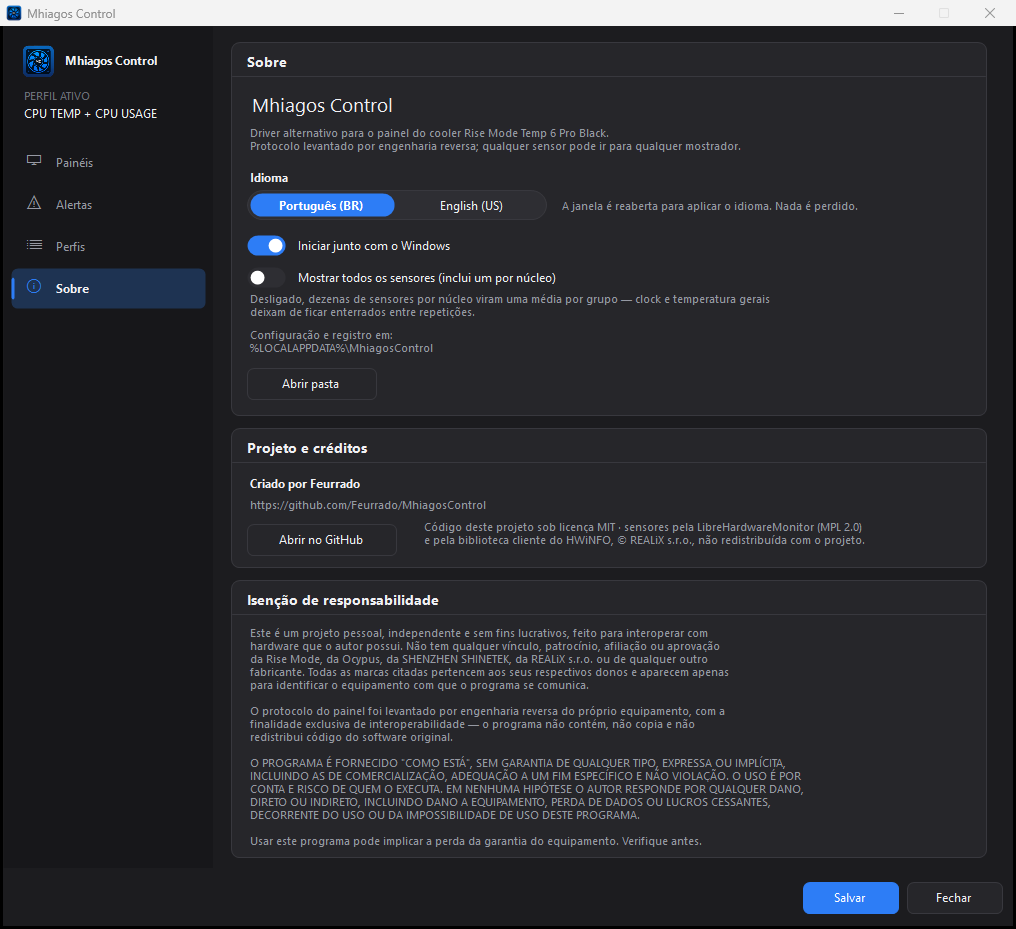
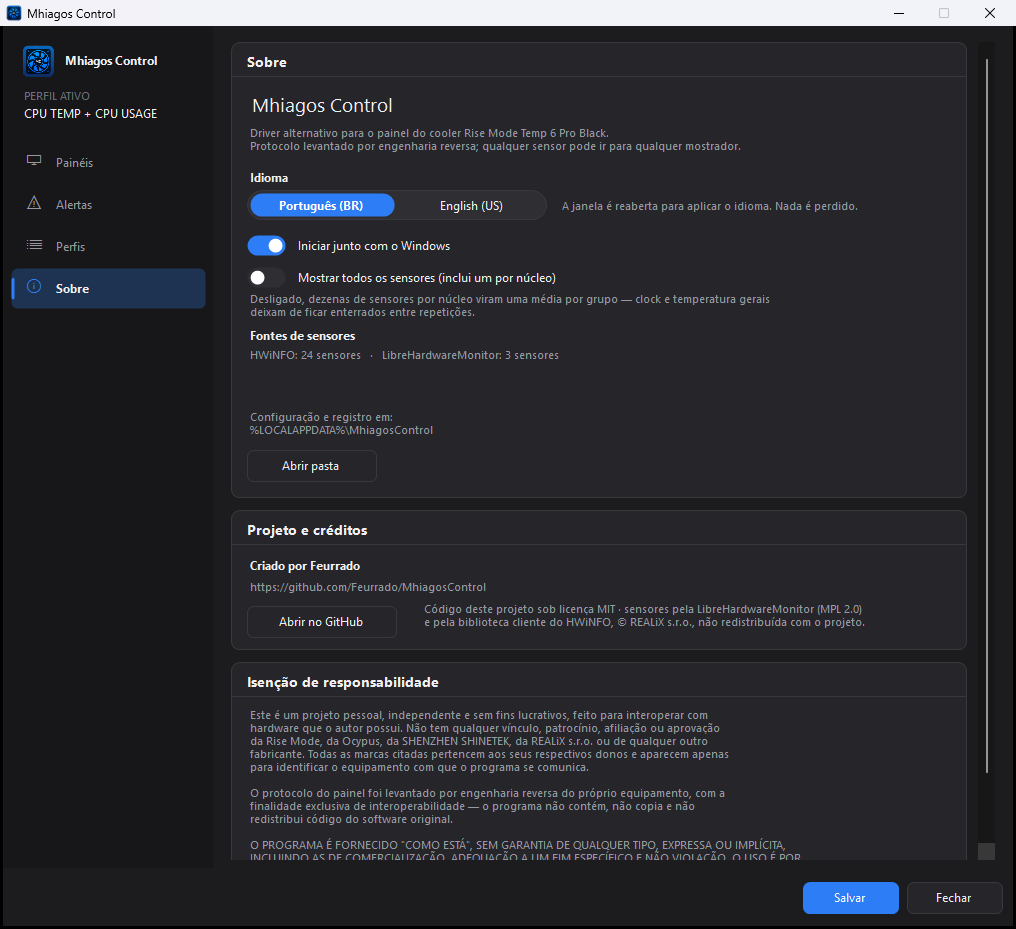
Corta o fallback para a instalacao de fabrica e torna a fonte visivel
A biblioteca do HWiNFO era carregada de C:\Program Files\CPU TEMP Monitor
quando faltava em engine\. Isso prendia o aplicativo ao programa que ele existe
para substituir: desinstalar o original tirava temperatura, potencia e clock
real da CPU, e a queda para a fonte de reserva so aparecia no log.

Agora ela e carregada apenas de engine\ (e da pasta do executavel, formato
antigo). No lugar do fallback silencioso:

- No arranque, se a biblioteca faltar em engine\ e a instalacao de fabrica
  tiver uma copia, o aplicativo PERGUNTA se quer traze-la. E o usuario copiando
  na propria maquina um arquivo que veio com o produto que comprou - nao o
  projeto redistribuindo -, por isso a copia e gesto explicito. A conferencia
  acontece antes de abrir as fontes, entao a copia vale nesta mesma execucao,
  sem reabrir nada nem pedir reinicio.

- A aba Sobre ganha "Fontes de sensores", com a contagem por procedencia. Sem o
  HWiNFO a linha fica em ambar e explica o que se perde e como resolver. A
  contagem sai da propria lista de sensores, e nao do motor: e a mesma
  informacao vinda de onde ela e verdade - se a fonte nao publicou nada, ela
  nao esta ali, independentemente do que a camada de baixo ache que abriu.

A pagina Sobre passa a rolar. Identidade, idioma, fontes, creditos e isencao ja
nao cabem nos 818 px uteis, e cortar qualquer um seria pior do que rolar.

Sai tambem a constante Disclaimer do SettingsForm, que ficou orfa quando o texto
[…]

diff --git a/src/SettingsForm.cs b/src/SettingsForm.cs
@@ -666,9 +666,14 @@ namespace MhiagosControl
             Panel page = new Panel();
             page.BackColor = Color.Transparent;
 
+            // A unica pagina que rola: identidade, idioma, fontes, creditos e
+            // isencao passam do que cabe em 818 px, e cortar qualquer um deles
+            // seria pior do que rolar.
+            page.AutoScroll = true;
+
             Card c = new Card();
             c.Title = T.NavAbout;
-            c.SetBounds(0, 0, 756, 374);
+            c.SetBounds(0, 0, 736, 456);
             page.Controls.Add(c);
 
             Label t = MakeLabel(T.AppName, 16, 50, Ui.FontTitle);
@@ -716,14 +721,28 @@ namespace MhiagosControl
             allNote.ForeColor = Ui.Muted;
             c.Controls.Add(allNote);
 
-            Label paths = MakeLabel(T.DataPathLabel + "\n" + Paths.DataDir, 16, 286, Ui.FontSmall);
+            // Quais fontes responderam, contado da propria lista de sensores.
+            // Antes, perder o HWiNFO so aparecia no log: o aplicativo seguia
+            // sem temperatura nem potencia da CPU e nada em tela dizia por que.
+            c.Controls.Add(MakeLabel(T.SensorSources, 16, 286, Ui.FontMed));
+
+            // Altura fixa para as tres linhas do pior caso: com o aviso, a
+            // contagem passa a dividir espaco com duas linhas de explicacao, e
+            // dimensionar so para o caso bom cortava justamente o texto que
+            // existe para ser lido.
+            Label fontes = MakeLabel(TextoDasFontes(), 16, 306, Ui.FontSmall);
+            fontes.Size = new Size(716, 52);
+            fontes.ForeColor = SemHwInfo() ? Ui.Warn : Ui.Muted;
+            c.Controls.Add(fontes);
+
+            Label paths = MakeLabel(T.DataPathLabel + "\n" + Paths.DataDir, 16, 368, Ui.FontSmall);
             paths.Size = new Size(700, 34);
             paths.ForeColor = Ui.Muted;
             c.Controls.Add(paths);
 
             FlatBtn open = new FlatBtn();
             open.Text = T.OpenFolder;
-            open.SetBounds(16, 326, 130, 32);
+            open.SetBounds(16, 408, 130, 32);
             open.Click += delegate
             {
                 try { System.Diagnostics.Process.Start("explorer.exe", Paths.DataDir); }
@@ -733,7 +752,7 @@ namespace MhiagosControl
 
             Card cr = new Card();
             cr.Title = T.ProjectAndCredits;
-            cr.SetBounds(0, 386, 756, 140);
+            cr.SetBounds(0, 468, 736, 140);
             page.Controls.Add(cr);
 
             Label autor = MakeLabel(T.CreatedBy, 16, 48, Ui.FontMed);
@@ -760,7 +779,7 @@ namespace MhiagosControl
 
             Card cd = new Card();
             cd.Title = T.DisclaimerTitle;
-            cd.SetBounds(0, 538, 756, 278);
+            cd.SetBounds(0, 620, 736, 278);
             page.Controls.Add(cd);
 
             Label disc = MakeLabel(T.Disclaimer, 16, 46, Ui.FontSmall);
@@ -799,32 +818,28 @@ namespace MhiagosControl
         private const string Repositorio = "https://github.com/Feurrado/MhiagosControl";
 
         /// <summary>
-        /// Texto de isencao.
+        /// Resumo de quem respondeu, contado pela procedencia das entradas.
         ///
-        /// Repete em tela o essencial do LICENSE porque quem instala um binario
-        /// raramente abre o arquivo de licenca - e e justamente a pessoa que
-        /// precisa saber que o programa fala com o hardware por sua conta e
-        /// risco. Vai alem do MIT no que ele nao cobre: marcas de terceiros,
-        /// engenharia reversa e garantia do equipamento.
+        /// Sai da propria lista de sensores em vez de perguntar ao motor: e a
+        /// mesma informacao, vinda de onde ela e verdade - se a fonte nao
+        /// publicou nada, ela nao esta ali, independentemente do que a camada
+        /// de baixo ache que abriu.
         /// </summary>
-        private const string Disclaimer =
-            "Este é um projeto pessoal, independente e sem fins lucrativos, feito para interoperar com\n" +
-            "hardware que o autor possui. Não tem qualquer vínculo, patrocínio, afiliação ou aprovação\n" +
-            "da Rise Mode, da Ocypus, da SHENZHEN SHINETEK, da REALiX s.r.o. ou de qualquer outro\n" +
-            "fabricante. Todas as marcas citadas pertencem aos seus respectivos donos e aparecem apenas\n" +
-            "para identificar o equipamento com que o programa se comunica.\n" +
-            "\n" +
-            "O protocolo do painel foi levantado por engenharia reversa do próprio equipamento, com a\n" +
-            "finalidade exclusiva de interoperabilidade — o programa não contém, não copia e não\n" +
-            "redistribui código do software original.\n" +
-            "\n" +
-            "O PROGRAMA É FORNECIDO \"COMO ESTÁ\", SEM GARANTIA DE QUALQUER TIPO, EXPRESSA OU IMPLÍCITA,\n" +
-            "INCLUINDO AS DE COMERCIALIZAÇÃO, ADEQUAÇÃO A UM FIM ESPECÍFICO E NÃO VIOLAÇÃO. O USO É POR\n" +
-            "CONTA E RISCO DE QUEM O EXECUTA. EM NENHUMA HIPÓTESE O AUTOR RESPONDE POR QUALQUER DANO,\n" +
-            "DIRETO OU INDIRETO, INCLUINDO DANO A EQUIPAMENTO, PERDA DE DADOS OU LUCROS CESSANTES,\n" +
-            "DECORRENTE DO USO OU DA IMPOSSIBILIDADE DE USO DESTE PROGRAMA.\n" +
-            "\n" +
-            "Usar este programa pode implicar a perda da garantia do equipamento. Verifique antes.";
+        private string TextoDasFontes()
+        {
+            int hw = 0, lhm = 0;
+            foreach (SensorEntry s in _sensors)
+                if (s.Source == "HWiNFO") hw++; else lhm++;
+
+            string linha = T.SensorsFrom("HWiNFO", hw) + "   ·   " + T.SensorsFrom("LibreHardwareMonitor", lhm);
+            return hw == 0 ? linha + "\n" + T.EngineMissing : linha;
+        }
+
+        private bool SemHwInfo()
+        {
+            foreach (SensorEntry s in _sensors) if (s.Source == "HWiNFO") return false;
+            return true;
+        }
 
         private static void Abrir(string url)
         {

diff --git a/src/HwInfo.cs b/src/HwInfo.cs
@@ -90,15 +90,84 @@ namespace MhiagosControl
         }
 
         /// <summary>
-        /// Locais procurados, em ordem. Preferimos uma copia ao lado do
-        /// executavel para que o aplicativo nao dependa da instalacao original.
+        /// Onde a biblioteca fica: em engine\, ao lado do executavel.
+        ///
+        /// A instalacao do software de fabrica NAO entra nesta lista. Carregar
+        /// de la deixava o aplicativo preso a um programa que ele existe para
+        /// substituir: desinstalar o original tirava temperatura e potencia sem
+        /// dizer nada em tela. Se a biblioteca so existe la, o caminho e copiar
+        /// uma vez - veja Adotar.
         /// </summary>
+        public static string EnginePath
+        {
+            get { return Path.Combine(Path.Combine(Paths.ExeDir, "engine"), FileName); }
+        }
+
         private static IEnumerable<string> Candidates()
         {
-            string f = FileName;
-            yield return Path.Combine(Path.Combine(Paths.ExeDir, "engine"), f);
-            yield return Path.Combine(Paths.ExeDir, f);
-            yield return Path.Combine(@"C:\Program Files\CPU TEMP Monitor", f);
+            yield return EnginePath;
+            yield return Path.Combine(Paths.ExeDir, FileName);   // formato antigo, sem engine\
+        }
+
+        /// <summary>A biblioteca ja pertence a esta instalacao.</summary>
+        public static bool Installed
+        {
+            get
+            {
+                foreach (string p in Candidates()) if (File.Exists(p)) return true;
+                return false;
+            }
+        }
+
+        /// <summary>
+        /// Procura a biblioteca na instalacao do software de fabrica, apenas
+        /// para oferecer a copia. Nada e carregado daqui.
+        /// </summary>
+        public static string OriginalInstallCopy()
+        {
+            try
+            {
+                foreach (string raiz in ProgramFiles())
+                {
+                    string p = Path.Combine(Path.Combine(raiz, "CPU TEMP Monitor"), FileName);
+                    if (File.Exists(p)) return p;
+                }
+            }
+            catch (Exception ex) { Log.Error("procura da biblioteca na instalacao original", ex); }
+            return null;
+        }
+
+        private static IEnumerable<string> ProgramFiles()
+        {
+            yield return Environment.GetFolderPath(Environment.SpecialFolder.ProgramFiles);
+            yield return Environment.GetFolderPath(Environment.SpecialFolder.ProgramFilesX86);
+        }
+
+        /// <summary>
+        /// Copia a biblioteca para engine\, tornando esta instalacao autonoma.
+        ///
+        /// E o usuario copiando, na propria maquina, um arquivo que ja veio com
+        /// o produto que ele comprou - nao o projeto redistribuindo. Por isso a
+        /// copia e um gesto explicito, e nao algo que acontece sozinho.
+        /// </summary>
+        public static bool Adotar(string origem, out string erro)
+        {
+            erro = null;
+            try
+            {
+                string destino = EnginePath;
+                string dir = Path.GetDirectoryName(destino);
+                if (!Directory.Exists(dir)) Directory.CreateDirectory(dir);
+                File.Copy(origem, destino, true);
+                Log.Write("biblioteca do HWiNFO copiada de " + origem + " para " + destino);
+                return true;
+            }
+            catch (Exception ex)
+            {
+                erro = ex.Message;
+                Log.Error("copia da biblioteca para engine", ex);
+                return false;
+            }
         }
 
         public bool Open()
@@ -108,7 +177,7 @@ namespace MhiagosControl
                 if (!File.Exists(path)) continue;
                 if (TryLoad(path)) return true;
             }
-            Log.Write("HWiNFO: " + FileName + " nao encontrada - seguindo sem essa fonte");
+            Log.Write("HWiNFO: " + FileName + " nao encontrada em engine\\ - seguindo sem essa fonte");
             return false;
         }
 

diff --git a/src/Lang.cs b/src/Lang.cs
@@ -281,6 +281,50 @@ namespace MhiagosControl
             }
         }
 
+        // ---------------- motor de sensores ----------------
+
+        public static string SensorSources { get { return P("Fontes de sensores", "Sensor sources"); } }
+        public static string SensorsFrom(string fonte, int n)
+        {
+            return P(fonte + ": " + n + " sensores", fonte + ": " + n + " sensors");
+        }
+
+        public static string EngineMissing
+        {
+            get
+            {
+                return P(
+                    "Sem a biblioteca do HWiNFO em engine\\, temperatura, potência e clock real da CPU não são lidos.\n" +
+                    "Copie api-ms-win-core-sysinfo-825-64.dll da instalação do CPU TEMP Monitor para a pasta engine\\.",
+                    "Without the HWiNFO library in engine\\, CPU temperature, power and real clock are not read.\n" +
+                    "Copy api-ms-win-core-sysinfo-825-64.dll from the CPU TEMP Monitor installation into engine\\.");
+            }
+        }
+
+        public static string AdoptEngineTitle { get { return P("Biblioteca de sensores", "Sensor library"); } }
+
+        public static string AdoptEngineQuestion(string origem, string destino)
+        {
+            return P(
+                "A biblioteca que lê temperatura e potência da CPU não está nesta instalação, mas foi encontrada em:\n\n" +
+                origem + "\n\n" +
+                "Copiar para a pasta do aplicativo? Isso torna o Mhiagos Control independente do software de fábrica, " +
+                "que poderá ser desinstalado sem perder esses sensores.\n\n" +
+                "Destino: " + destino,
+
+                "The library that reads CPU temperature and power is not in this installation, but was found at:\n\n" +
+                origem + "\n\n" +
+                "Copy it into the application folder? This makes Mhiagos Control independent of the factory software, " +
+                "which can then be uninstalled without losing those sensors.\n\n" +
+                "Destination: " + destino);
+        }
+
+        public static string AdoptFailed(string erro)
+        {
+            return P("Não foi possível copiar a biblioteca:\n\n" + erro,
+                     "Could not copy the library:\n\n" + erro);
+        }
+
         // ---------------- tela de carregamento ----------------
 
         public static string Starting { get { return P("Iniciando...", "Starting..."); } }

diff --git a/src/TrayApp.cs b/src/TrayApp.cs
@@ -91,6 +91,8 @@ namespace MhiagosControl
         /// </summary>
         private void AbrirSensores()
         {
+            ConferirMotor();
+
             // qualificado: System.Threading tambem tem um Timer
             _demora = new System.Windows.Forms.Timer();
             _demora.Interval = 3000;
@@ -120,6 +122,37 @@ namespace MhiagosControl
             init.IsBackground = true;
             init.Name = "SensorInit";
             init.Start();
+        }
+
+        /// <summary>
+        /// Oferece adotar a biblioteca do HWiNFO da instalacao de fabrica.
+        ///
+        /// Acontece ANTES de abrir as fontes, e nao depois de falhar: assim a
+        /// copia entra a tempo de ser usada nesta mesma execucao, sem reabrir
+        /// nada nem pedir reinicio.
+        ///
+        /// So pergunta quando ha o que oferecer. Se a biblioteca nao existe em
+        /// lugar nenhum, calar aqui e proposital - o aviso fica na aba Sobre,
+        /// onde informa sem cobrar nada a cada arranque.
+        /// </summary>
+        private void ConferirMotor()
+        {
+            try
+            {
+                if (HwInfo.Installed) return;
+                string origem = HwInfo.OriginalInstallCopy();
+                if (origem == null) return;
+
+                DialogResult r = MessageBox.Show(
+                    T.AdoptEngineQuestion(origem, HwInfo.EnginePath),
+                    T.AdoptEngineTitle, MessageBoxButtons.YesNo, MessageBoxIcon.Question);
+                if (r != DialogResult.Yes) { Log.Write("copia da biblioteca recusada pelo usuario"); return; }
+
+                string erro;
+                if (!HwInfo.Adotar(origem, out erro))
+                    MessageBox.Show(T.AdoptFailed(erro), T.AppName, MessageBoxButtons.OK, MessageBoxIcon.Warning);
+            }
+            catch (Exception ex) { Log.Error("conferencia do motor de sensores", ex); }
         }
 
         private delegate void SensoresProntosHandler(Exception falha);

diff --git a/README.md b/README.md
@@ -175,11 +175,30 @@ O `Init` falha com código **1** sem elevação, porque a biblioteca precisa
 registrar e subir seu driver.
 
 > **A DLL não está neste repositório** — é software comercial de terceiros e
-> não pode ser redistribuída (veja *Licença*). Para habilitar essa fonte, copie
-> `api-ms-win-core-sysinfo-825-64.dll` da instalação do *CPU TEMP Monitor* que
-> acompanha o produto (`C:\Program Files\CPU TEMP Monitor\`) para `lib\` antes
-> de compilar. Sem ela o `build.ps1` avisa e o aplicativo sobe usando apenas a
-> fonte de reserva.
+> não pode ser redistribuída (veja *Licença*).
+
+#### Como colocar a biblioteca na sua instalação
+
+Ela é carregada **apenas de `bin\engine\`**. O aplicativo não lê da pasta do
+software de fábrica: fazer isso o deixaria preso ao programa que ele existe para
+substituir, e desinstalar o original tiraria temperatura e potência sem dizer
+nada em tela.
+
+Há dois caminhos, e os dois são você copiando um arquivo que já veio com o
+produto que comprou — não o projeto redistribuindo:
+
+1. **Na primeira execução**, se a biblioteca não estiver em `engine\` e o *CPU
+   TEMP Monitor* estiver instalado, o aplicativo encontra a cópia e **pergunta**
+   se quer trazê-la. Um clique e a instalação fica autônoma; o software de
+   fábrica pode ser desinstalado depois.
+2. **Ao compilar**, ponha `api-ms-win-core-sysinfo-825-64.dll` em `lib\` e o
+   `build.ps1` a copia para `bin\engine\`. Sem ela o script avisa.
+
+Se nenhum dos dois acontecer, o aplicativo sobe com a fonte de reserva e diz
+isso **na aba Sobre**, em *Fontes de sensores* — não só no log.
+
+Sem o *CPU TEMP Monitor* instalado e sem uma cópia guardada, a biblioteca só
+vem do instalador que acompanha o produto.
 
 ### LibreHardwareMonitor (reserva)
 
